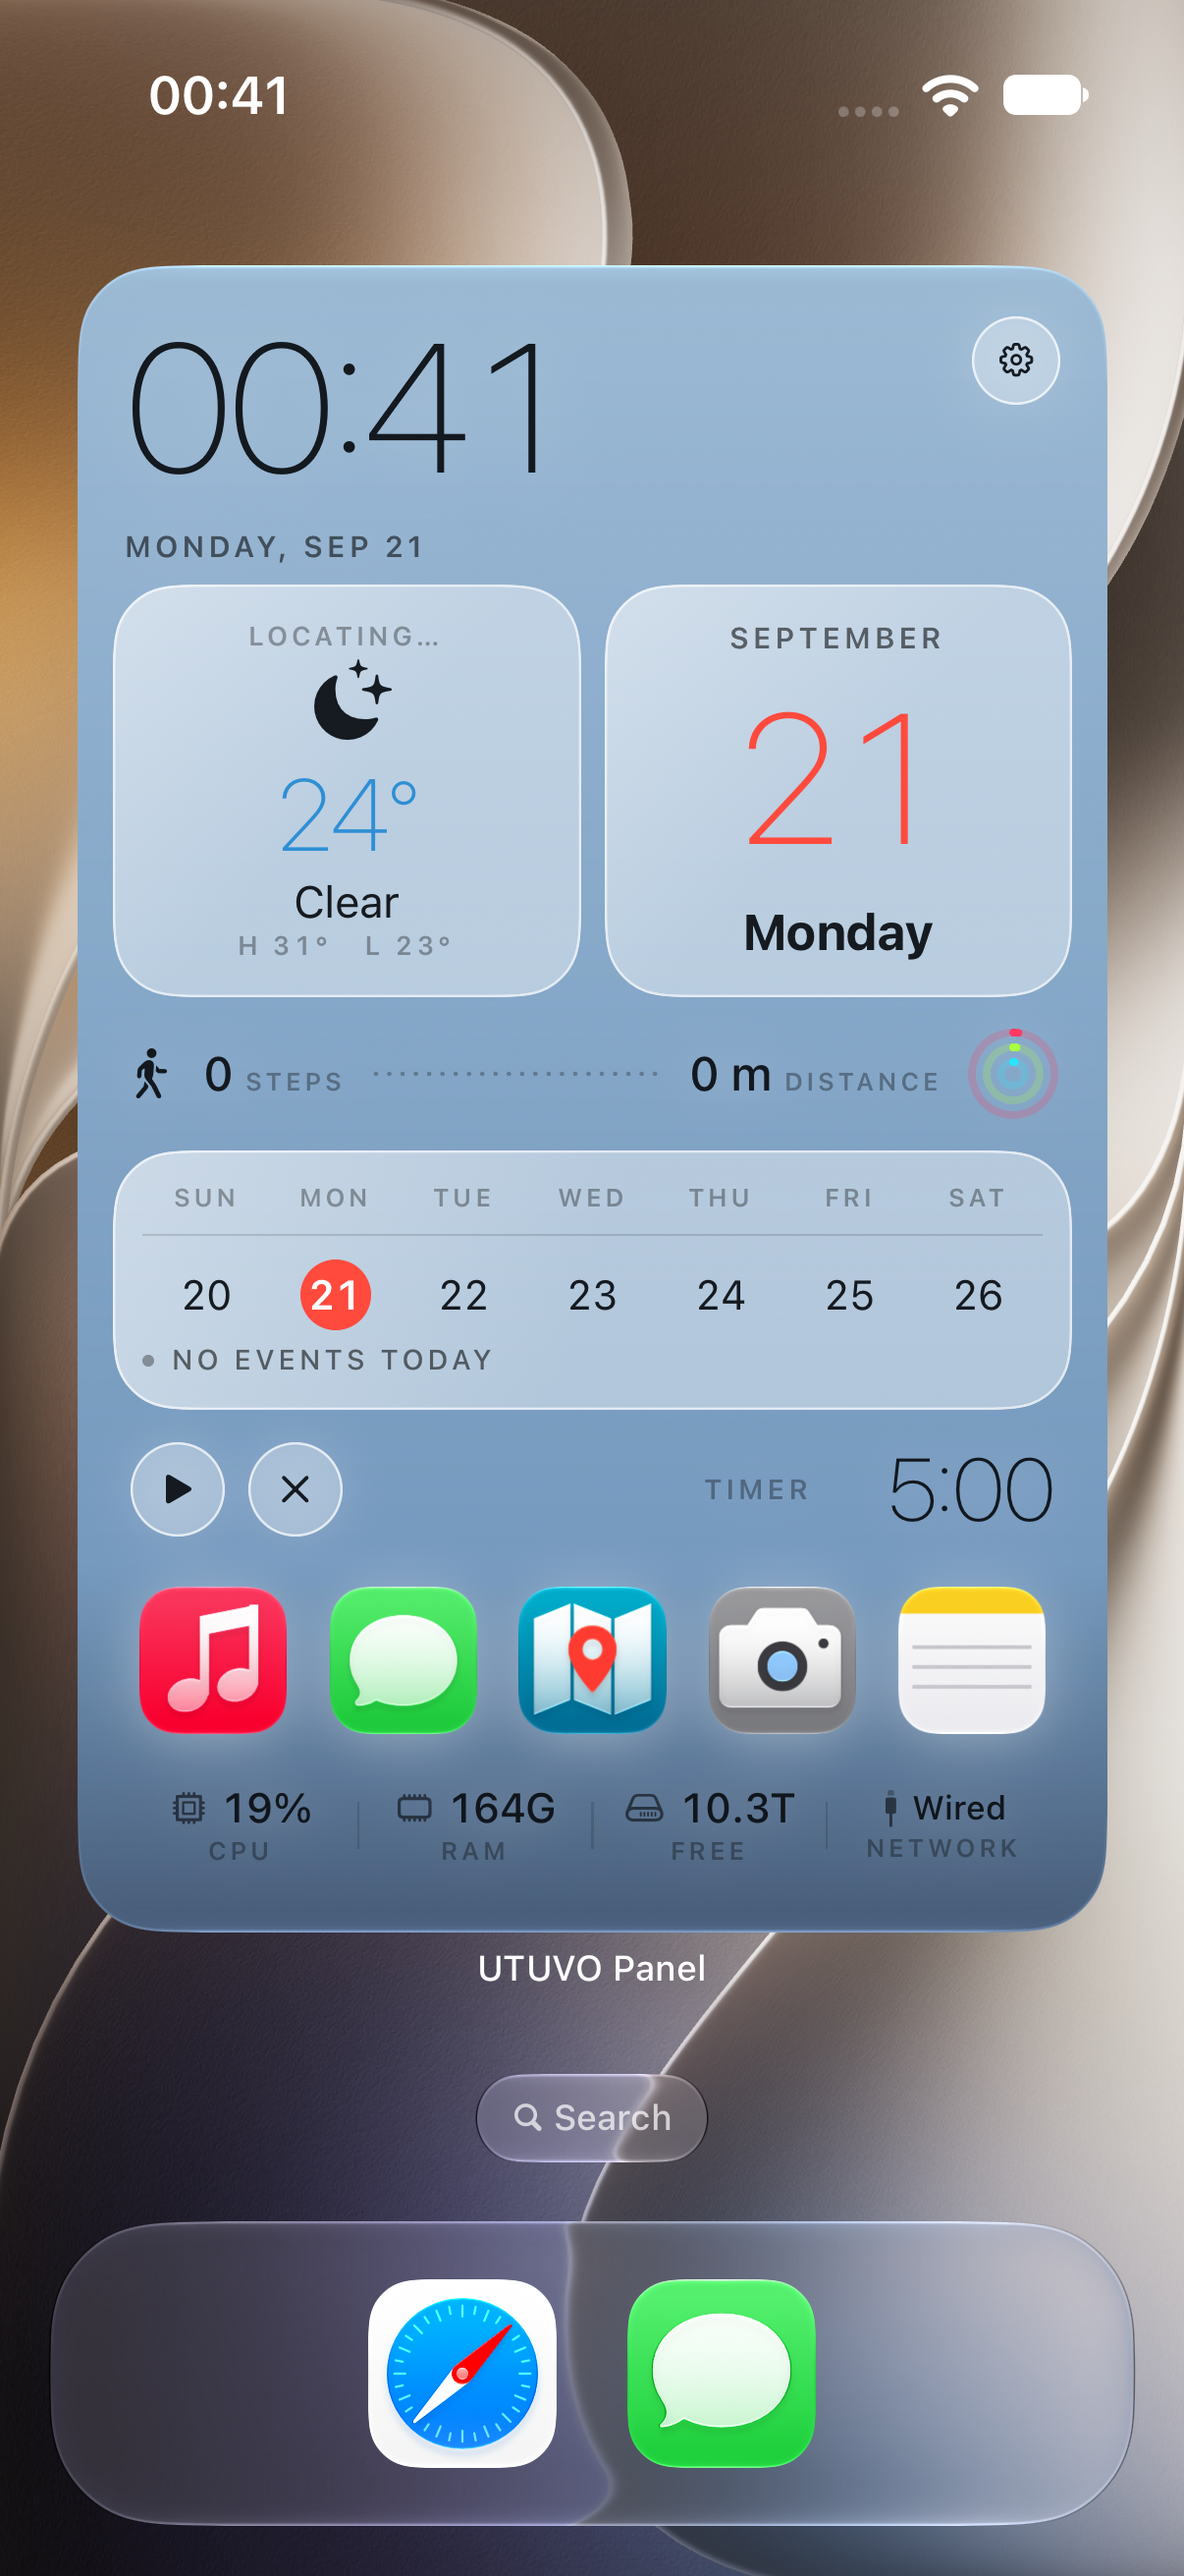
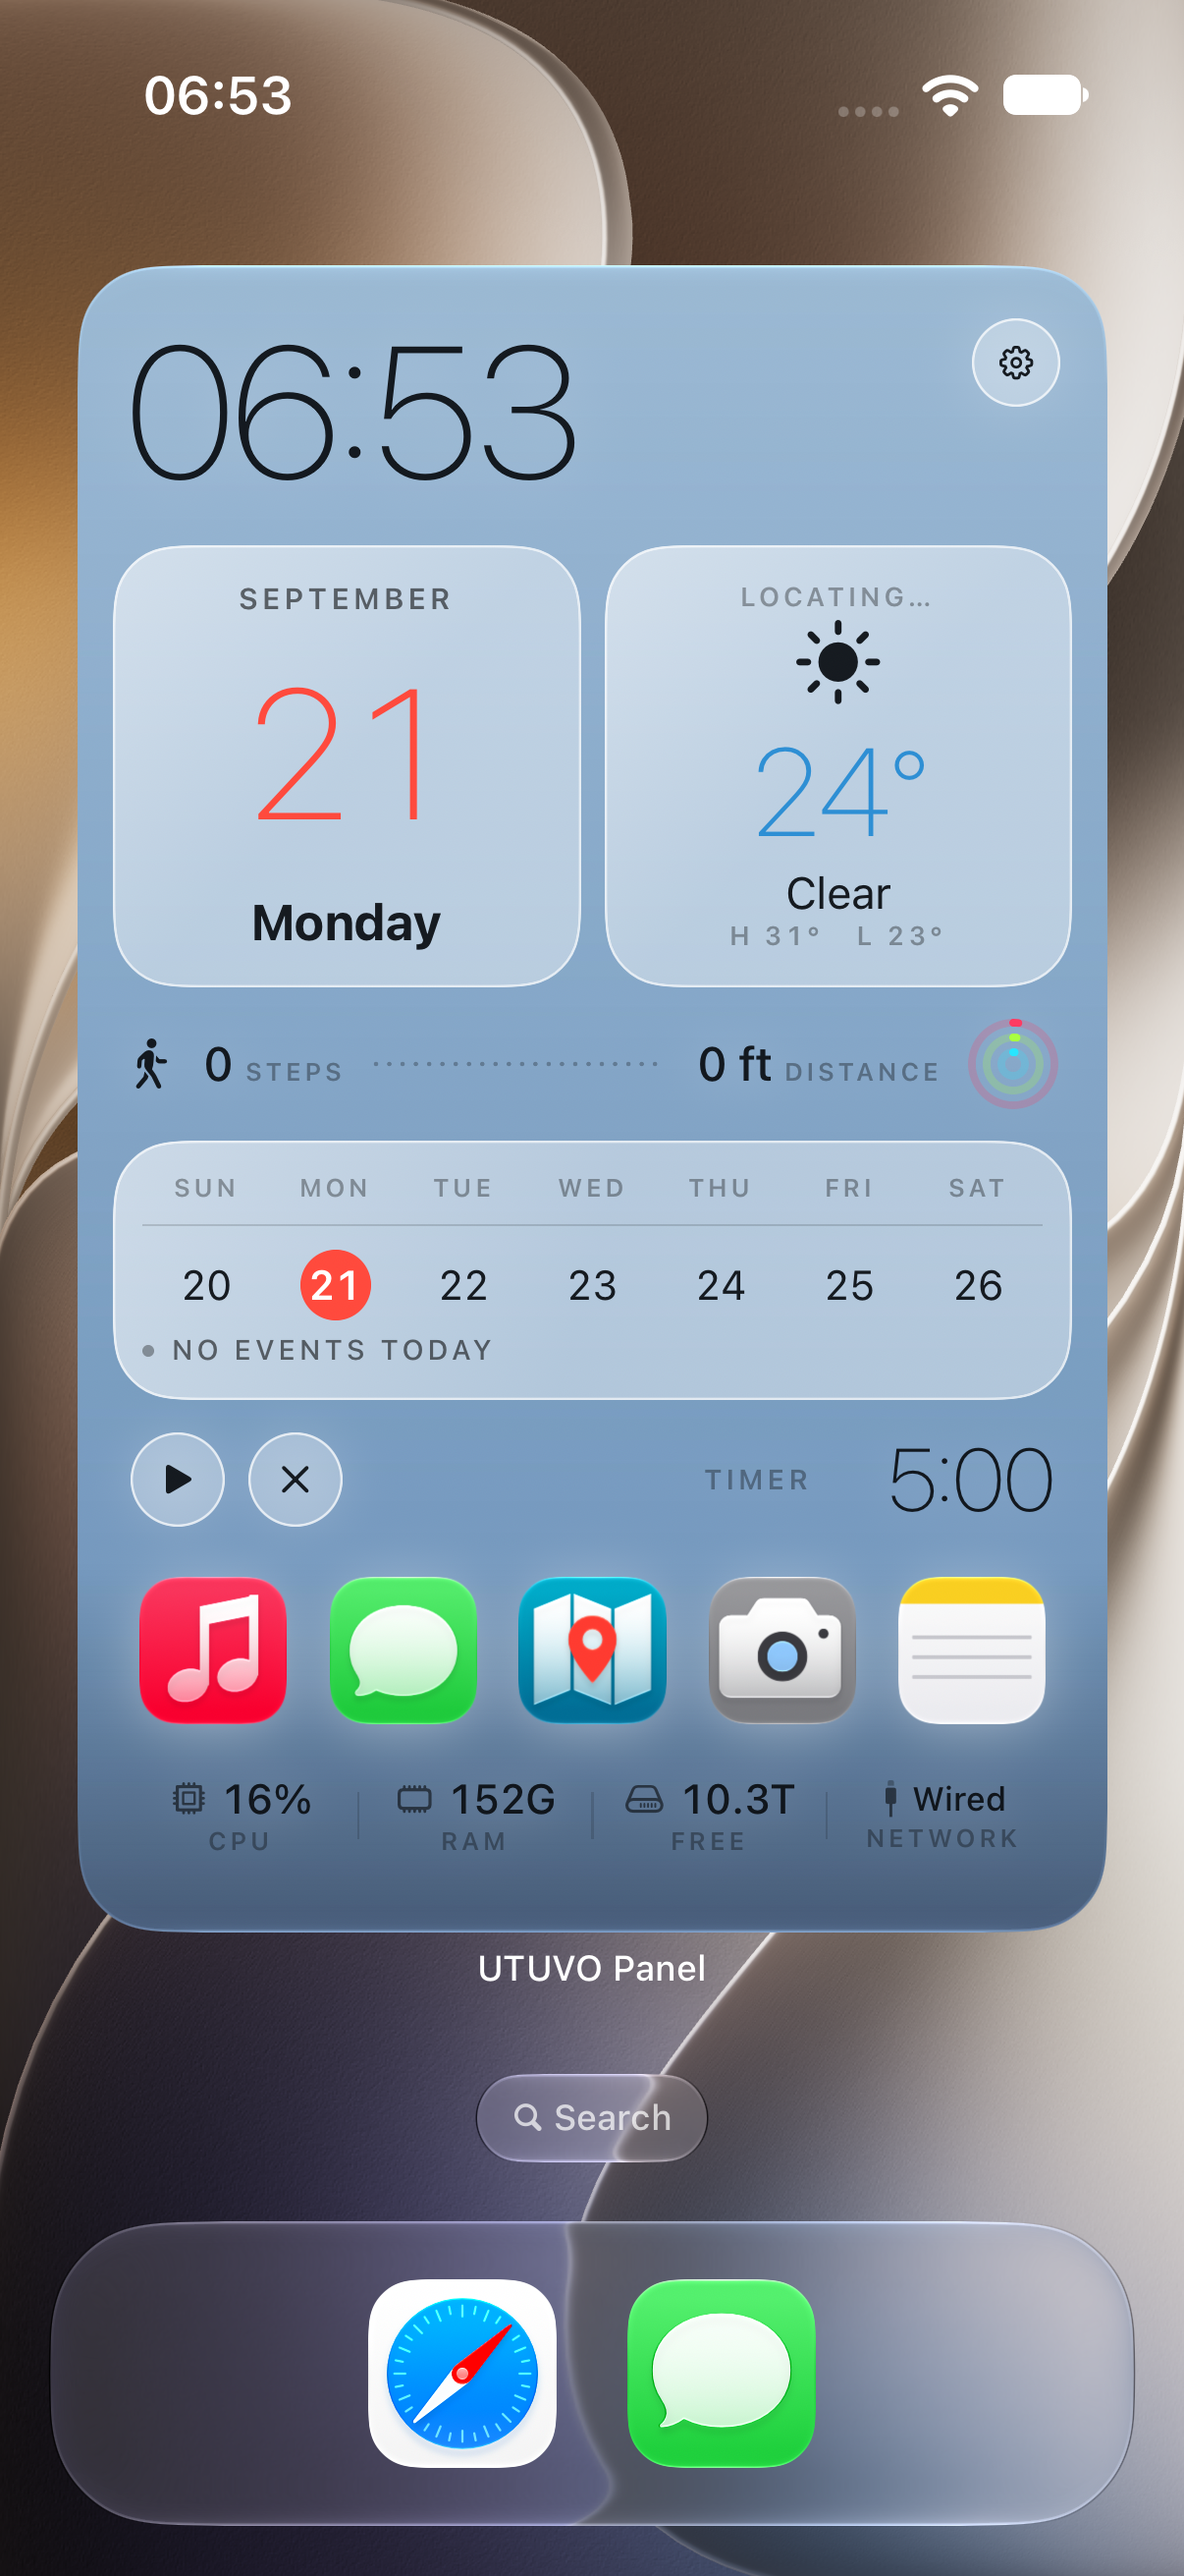
面板微調：拿掉標頭那行日期、日期卡與天氣卡左右對調
Micky 2026-09-21：「已經有日曆了，上面那一行日期拿掉；天氣／日曆左右對調」。

- HeaderRow 只剩時鐘（週曆卡本來就帶日期，標頭那行是重複資訊）
- 雙卡順序改成 日期（左）／天氣（右）
- 標頭少了一行，高度 90→76，省下的 14 pt 給雙卡（140→150），
  XL 總高 556 ≤ 565.67；systemLarge 同步 52/112，總高 328 ≤ 345

diff --git a/ios/Shared/PanelView.swift b/ios/Shared/PanelView.swift
@@ -118,11 +118,11 @@ extension EnvironmentValues {
 private struct Metrics {
     var header: CGFloat, cards: CGFloat, ribbon: CGFloat, week: CGFloat, timer: CGFloat, launch: CGFloat, system: CGFloat
     var gap: CGFloat, clock: CGFloat, hero: CGFloat, tile: CGFloat
-    static let xl = Metrics(header: 90, cards: 140, ribbon: 38, week: 88, timer: 40, launch: 62, system: 36,
+    static let xl = Metrics(header: 76, cards: 150, ribbon: 38, week: 88, timer: 40, launch: 62, system: 36,
                             gap: 7, clock: 64, hero: 54, tile: 50)
     // systemLarge is only 329×345 pt on the smallest phone iOS 27 still runs on, so this set has to
-    // fit 345 − 24 (padding) = 321: 64+104+70+52 + 3×6 = 308.
-    static let large = Metrics(header: 64, cards: 104, ribbon: 0, week: 70, timer: 0, launch: 52, system: 0,
+    // fit 345 − 24 (padding) = 321: 52+112+70+52 + 3×6 = 304.
+    static let large = Metrics(header: 52, cards: 112, ribbon: 0, week: 70, timer: 0, launch: 52, system: 0,
                                gap: 6, clock: 44, hero: 40, tile: 44)
 }
 private struct MetricsKey: EnvironmentKey { static let defaultValue = Metrics.xl }
@@ -173,11 +173,11 @@ struct PanelView: View {
 
             if data.config.showWeather || data.config.showCalendar {
                 HStack(spacing: 8) {
-                    if data.config.showWeather {
-                        open("weather") { WeatherCard(weather: data.weather, city: data.config.city) }
-                    }
                     if data.config.showCalendar {
                         open("calendar") { DateCard(date: data.date) }
+                    }
+                    if data.config.showWeather {
+                        open("weather") { WeatherCard(weather: data.weather, city: data.config.city) }
                     }
                 }
                 .frame(height: m.cards)
@@ -359,22 +359,17 @@ private struct HeaderRow: View {
 
     var body: some View {
         HStack(alignment: .top) {
-            VStack(alignment: .leading, spacing: 4) {
-                Group {
-                    if showSeconds, let day = Calendar.current.dateInterval(of: .day, for: date) {
-                        // Live, ticking every second, driven by the system — no timeline entries needed.
-                        Text(timerInterval: day.start...day.end, pauseTime: nil, countsDown: false, showsHours: true)
-                    } else {
-                        Text(date, format: .dateTime.hour(.twoDigits(amPM: .omitted)).minute())
-                    }
+            Group {
+                if showSeconds, let day = Calendar.current.dateInterval(of: .day, for: date) {
+                    // Live, ticking every second, driven by the system — no timeline entries needed.
+                    Text(timerInterval: day.start...day.end, pauseTime: nil, countsDown: false, showsHours: true)
+                } else {
+                    Text(date, format: .dateTime.hour(.twoDigits(amPM: .omitted)).minute())
                 }
-                .hero(showSeconds ? m.clock * 0.78 : m.clock)
-                .foregroundStyle(ink.primary)
-                .widgetAccentable()
-                Text(up(date.formatted(.dateTime.weekday(.wide).month(.abbreviated).day())))
-                    .caps(10)
-                    .foregroundStyle(ink.secondary)
             }
+            .hero(showSeconds ? m.clock * 0.78 : m.clock)
+            .foregroundStyle(ink.primary)
+            .widgetAccentable()
             Spacer(minLength: 8)
             // Settings: opens the app (widgets can only open their own container).
             Link(destination: Launcher.settingsDeepLink) {
